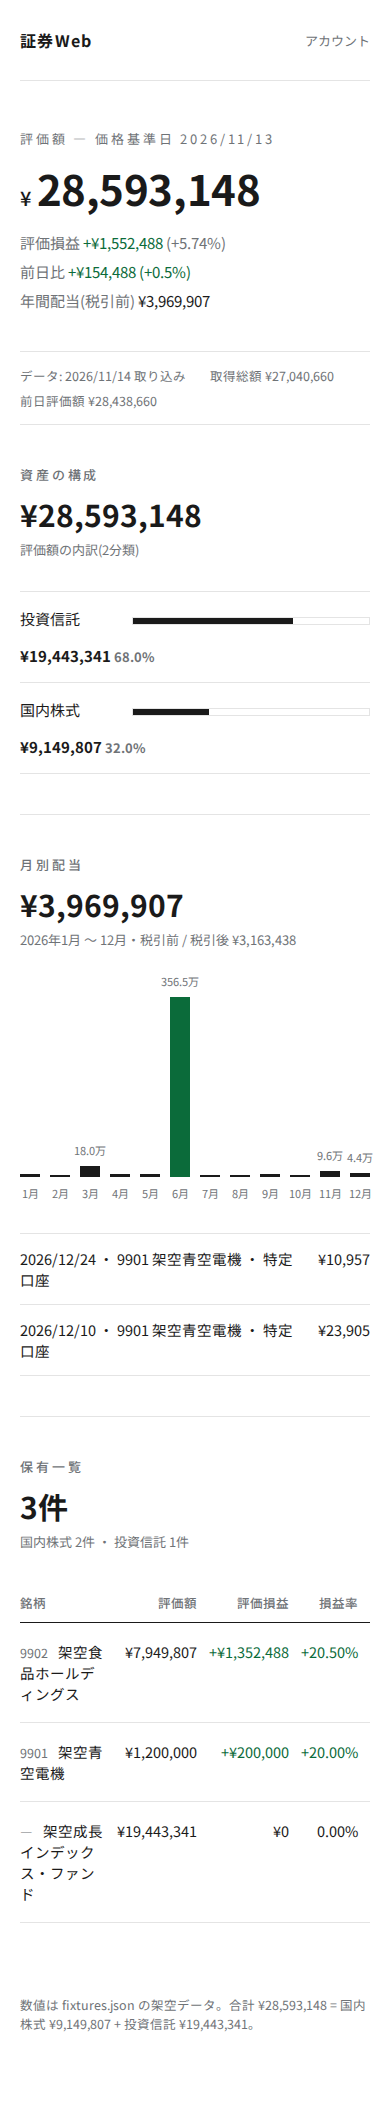
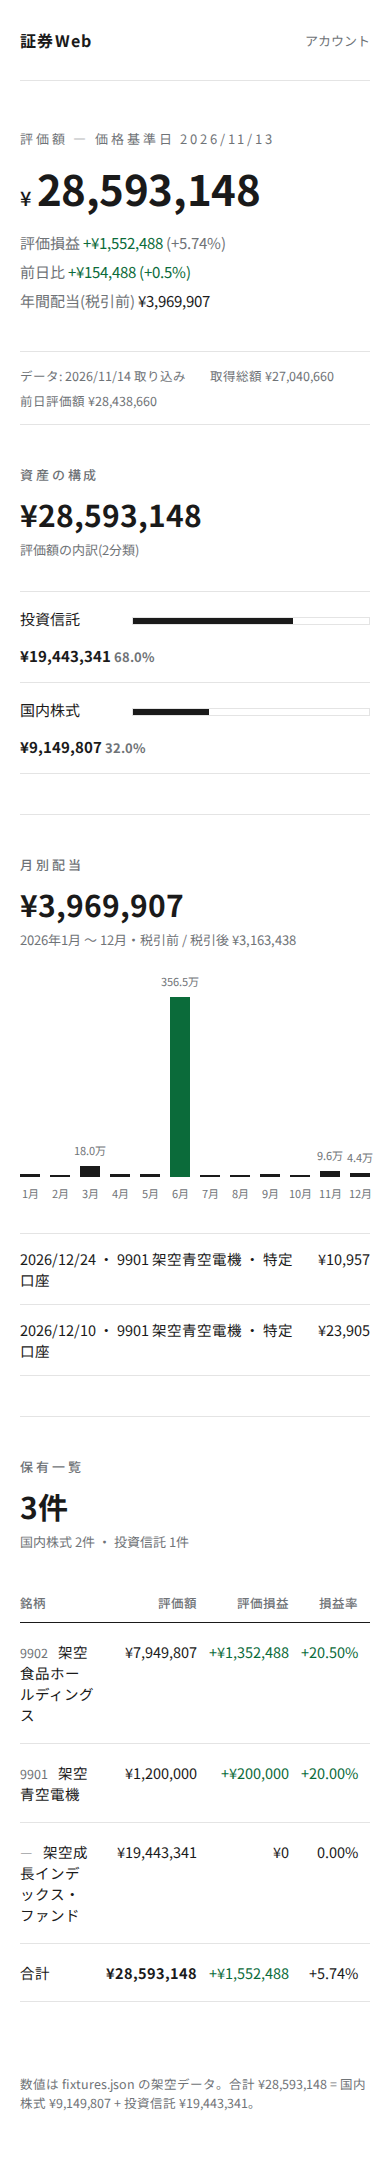
docs: phase8-visual のスマホ合計行とテーマ初期値を修正
Devin 指摘2件の対応。本番コードは変更なし。

diff --git a/docs/design/work/phase8-visual/idea1-minimal.html b/docs/design/work/phase8-visual/idea1-minimal.html
@@ -3,7 +3,7 @@
   1. 紺の3分割集計帯をやめ、白地に評価額1点だけを大きく置いた
   2. 配当グラフを「予想vs実績・達成率」から「12か月の実績のみ」の細棒に変えた
   3. 口座別バーと銘柄リストをなくし、構成→月別→保有を線区切りで一直線に並べた -->
-<html lang="ja" data-theme="light">
+<html lang="ja">
 <head>
 <meta charset="utf-8">
 <meta name="viewport" content="width=device-width,initial-scale=1">
@@ -152,6 +152,7 @@ table.hold td .code{color:var(--muted); font-size:12.5px; margin-right:10px}
         <tr><td><span class="code">9902</span>架空食品ホールディングス</td><td>100株 ・ ¥79,498.07</td><td class="n">¥7,949,807</td><td class="n up">+¥1,352,488</td><td class="n up">+20.50%</td></tr>
         <tr><td><span class="code">9901</span>架空青空電機</td><td>100株 ・ ¥12,000</td><td class="n">¥1,200,000</td><td class="n up">+¥200,000</td><td class="n up">+20.00%</td></tr>
         <tr><td><span class="code">—</span>架空成長インデックス・ファンド</td><td>10,000,000口 ・ ¥19,443.341</td><td class="n">¥19,443,341</td><td class="n">¥0</td><td class="n">0.00%</td></tr>
+        <tr><td>合計</td><td>3件</td><td class="n"><strong>¥28,593,148</strong></td><td class="n up">+¥1,552,488</td><td class="n">+5.74%</td></tr>
       </tbody>
     </table>
   </section>
@@ -159,7 +160,7 @@ table.hold td .code{color:var(--muted); font-size:12.5px; margin-right:10px}
   <div class="foot">数値は fixtures.json の架空データ。合計 ¥28,593,148 = 国内株式 ¥9,149,807 + 投資信託 ¥19,443,341。</div>
 </div>
 <script>
-try{const t=new URLSearchParams(location.search).get('theme');if(t)document.documentElement.dataset.theme=t;}catch(e){}
+try{const t=new URLSearchParams(location.search).get('theme');if(t==="light"||t==="dark")document.documentElement.dataset.theme=t;}catch(e){}
 </script>
 </body>
 </html>

diff --git a/docs/design/work/phase8-visual/idea3-cards.html b/docs/design/work/phase8-visual/idea3-cards.html
@@ -3,7 +3,7 @@
   1. 紺の帯をやめ淡い緑地+白カードにし、評価額・損益・配当を分けて置いた
   2. ドーナツと月別棒を大きくし、予想・達成率や口座別バーをなくした
   3. 保有一覧を銘柄ごとの行にし、評価額を右に大きく出した -->
-<html lang="ja" data-theme="light">
+<html lang="ja">
 <head>
 <meta charset="utf-8">
 <meta name="viewport" content="width=device-width,initial-scale=1">
@@ -149,12 +149,14 @@ h2.sec::before{content:""; width:10px; height:10px; border-radius:3px; backgroun
       <div class="detail"><span>100株 ・ ¥12,000</span><span class="up">+¥200,000 (+20.00%)</span></div></div>
     <div class="row"><div class="name"><span class="code">—</span>架空成長インデックス・ファンド</div><div class="val">¥19,443,341</div>
       <div class="detail"><span>10,000,000口 ・ ¥19,443.341</span><span>¥0 (0.00%)</span></div></div>
+    <div class="row"><div class="name">合計 3件</div><div class="val">¥28,593,148</div>
+      <div class="detail"><span class="up">+¥1,552,488 (+5.74%)</span></div></div>
   </div>
 
   <div class="foot">数値は fixtures.json の架空データ。合計 ¥28,593,148 = 国内株式 ¥9,149,807 + 投資信託 ¥19,443,341。データ: 2026/11/14 取り込み。</div>
 </div>
 <script>
-try{const t=new URLSearchParams(location.search).get('theme');if(t)document.documentElement.dataset.theme=t;}catch(e){}
+try{const t=new URLSearchParams(location.search).get('theme');if(t==="light"||t==="dark")document.documentElement.dataset.theme=t;}catch(e){}
 </script>
 </body>
 </html>

diff --git a/docs/design/work/phase8-visual/idea2-finance.html b/docs/design/work/phase8-visual/idea2-finance.html
@@ -3,7 +3,7 @@
   1. 紺の帯は残し、金額を右そろえの表にして内訳列で検算できる形にした
   2. 配当は12か月バー+主要月だけの表に集約し、予想・達成率をなくした
   3. 保有一覧に合計行を付け、口座別バーは削った -->
-<html lang="ja" data-theme="light">
+<html lang="ja">
 <head>
 <meta charset="utf-8">
 <meta name="viewport" content="width=device-width,initial-scale=1">
@@ -191,7 +191,7 @@ td.num, td .n{font-weight:500}
   <div class="foot">数値は fixtures.json の架空データ。各金額は円単位に四捨五入。損益率 = 評価損益 ÷ 取得総額。</div>
 </div>
 <script>
-try{const t=new URLSearchParams(location.search).get('theme');if(t)document.documentElement.dataset.theme=t;}catch(e){}
+try{const t=new URLSearchParams(location.search).get('theme');if(t==="light"||t==="dark")document.documentElement.dataset.theme=t;}catch(e){}
 </script>
 </body>
 </html>
